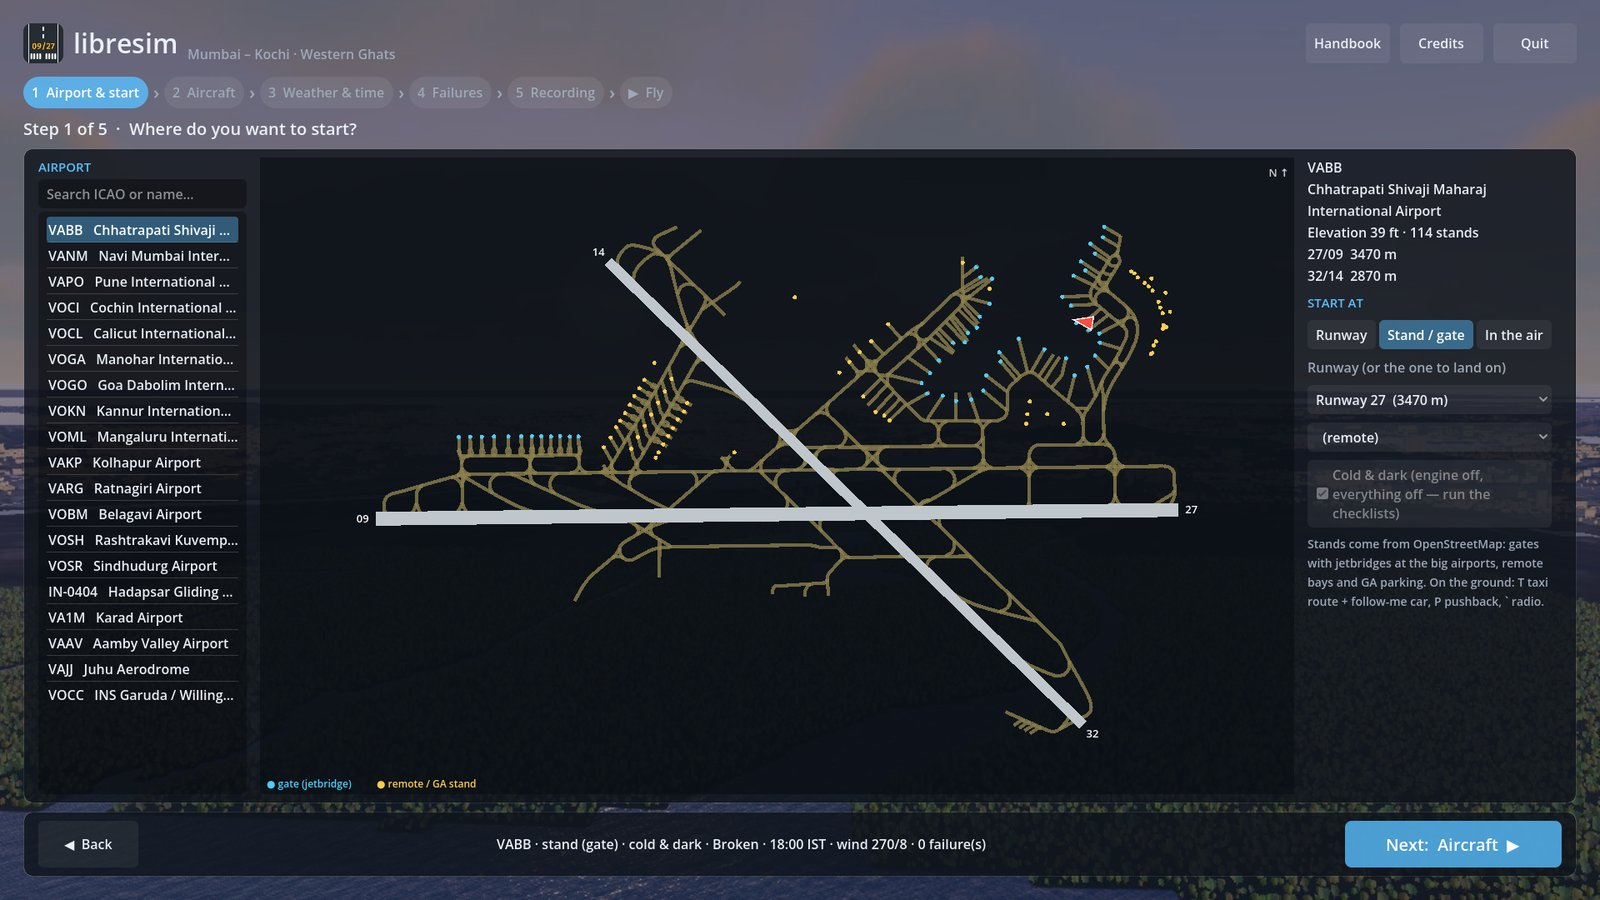
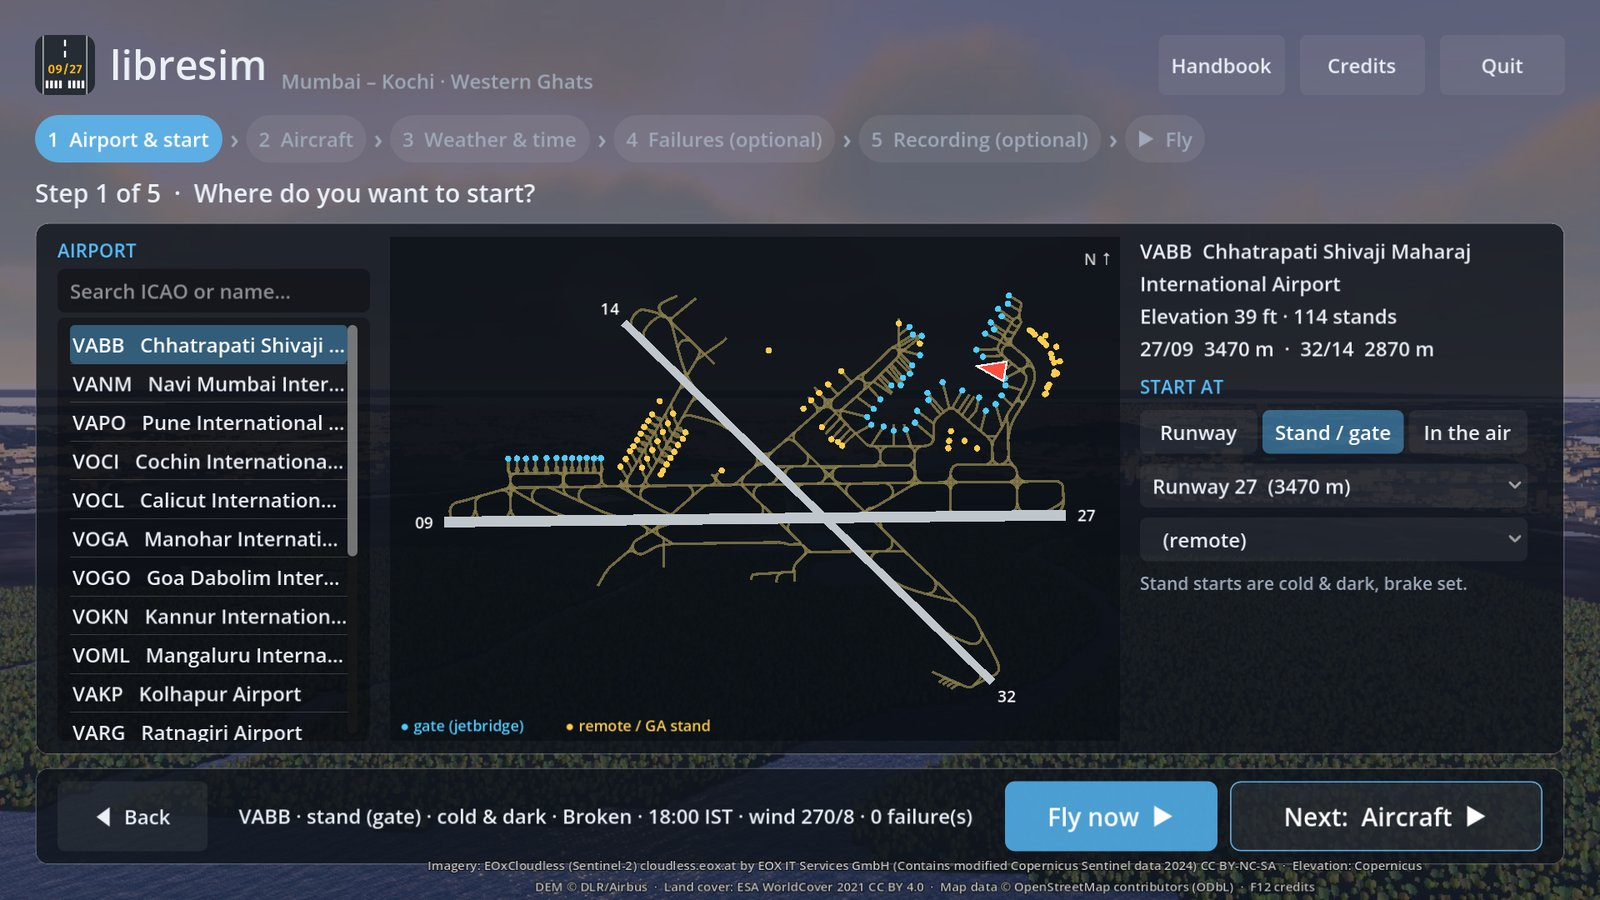
Start screens: fix clipping found on review; refresh README start-screen images and docs
- Weather step: the Month row moves under Time of day and shows only with "More weather" open, so
  everything fits at 1280x720 and 1920x1080; Aircraft step: narrower aircraft list and payload label
  width so the A320's three key specs and the payload labels fit on one line each.
- README images 09 (start screen), 10 (airport picker) and 15 (A320 aircraft page) regenerated with
  tools/make_screenshots.sh from the tidied pages (the a320_aircraft_page scene no longer scrolls);
  README caption/alt text adjusted.
- docs/USAGE.md step 5 and More weather wording; docs/A320-STATUS.md follow-ups marked done.
- 531 tests pass; start-screen e2e 52/52.

Changed region(s): [[0.0, 0.0311, 1.0, 0.9956], [0.7188, 0.0311, 0.9062, 0.0933], [0.9062, 0.0311, 0.9688, 0.0933]]

diff --git a/docs/USAGE.md b/docs/USAGE.md
@@ -234,7 +234,7 @@ Running the game opens the **start screen** (the libresim logo shows first as th
    - Set fuel and the loads (one compact slider each). The takeoff weight is checked against MTOW and the CG against the envelope (shown red with OVER MTOW / CG OUT OF LIMITS; hover the weight for the pilot weight and what an out-of-limits loading does). Payload changes the mass, CG and performance in the flight model.
 3. **Weather & time:**
    - **Weather presets:** Clear, Fair, Scattered, Broken (passing showers), Overcast (drizzle), Winter haze, Monsoon (heavy rain under a low deck, occasional lightning).
-   - **Time of day:** presets or a slider. **Dawn** and **Dusk** are the real sunrise and sunset for the chosen month (mid-February: 07:10 and 18:40 IST; June: about 06:00 and 19:15).
+   - **Time of day:** presets or a slider. **Dawn** and **Dusk** are the real sunrise and sunset for the chosen month (mid-February: 07:10 and 18:40 IST; June: about 06:00 and 19:15). The **Month** row (and the clock rate) appear under "More weather".
    - **Wind:** presets, direction and speed, plus a "90° crosswind" button. A live head/crosswind readout covers the chosen runway and turns red above the C172's 15 kt demonstrated crosswind or with a tailwind.
    - **More weather** (collapsed at first): cloud cover, cloud base, visibility, rain, turbulence, thermals, storm cells, icing, gusts, QNH, temperature, the clock rate and the month.
 4. **Failures (optional):**
@@ -255,7 +255,7 @@ Running the game opens the **start screen** (the libresim logo shows first as th
    - "Tell me when something fails" shows a notice. With it off, you diagnose the failure from the instruments and the aircraft's behaviour.
 
 5. **Recording (optional):**
-   - Tick "Record this flight" to record the whole session, **picture and sound**.
+   - Skip this step to fly without recording. Tick "Record this flight" to record the whole session, **picture and sound** (F8 starts / stops it in flight; hover the tick box for the details). The step shows only the folder, resolution / frame rate, the MP4 option and one size line; the rest is in hover tips.
    - Files go to `recordings/` in the game folder by default, or to any folder you choose. Read-only installs (AppImage, .app) fall back to `~/.local/share/godot/app_userdata/libresim/recordings`.
    - Choose 720p, 1080p or native resolution, at 24, 30 or 60 fps.
    - **Format:** files are named `libresim_<date>_<time>.mkv` (MJPEG video plus 16-bit PCM sound), written by the game itself, so no extra software is needed. They play in VLC and mpv and import into video editors.

diff --git a/docs/A320-STATUS.md b/docs/A320-STATUS.md
@@ -116,14 +116,10 @@ Run order and options: USAGE section 3 ("A320 data", "A320 model"). Untrusted fe
 - `docs/LICENSING.md`, `third_party/a320-family/SOURCE.md`, `CREDITS.md`, `game/aircraft/a320/sounds/SOURCES.md`: licences and credits.
 - `docs/ATC.md`: the airline ATC profile.
 
-## 8. Open: start-screen tidy follow-ups (Free flight steps; committed in `3a56109`)
+## 8. Start-screen tidy (Free flight steps): done
 
-Not done yet, in order:
-1. Read the C172 re-shoots in `data/scratch/shots/f_c172/` and `f_c172_open/`, re-shoot the A320 (plain and with `FREESIM_OPEN=1`) and check: Weather step with "More weather" open (does the Month row fit, where the "90° crosswind" button sits); Aircraft step (three key specs wrapping in the 430 px right column, payload labels clipped); Failures step still scrolls acceptably. Fix any clipping in `ui/menu/conditions_page.gd` / `aircraft_page.gd`.
-2. Same shots at 1920x1080 (`FREESIM_SIZE=1920x1080`).
-3. `docs/USAGE.md`: step 5 wording and the Dawn/Dusk bullet (~line 237) still mention the clock rate and month.
-4. `game/tests/showcase_scenes.gd`: remove `"scroll": 150` from the `a320_aircraft_page` scene, then regenerate `docs/screenshots/09-start-screen.jpg`, `10-airport-picker.jpg`, `15-a320-aircraft-page.jpg` with `tools/make_screenshots.sh start_home start_flight a320_aircraft_page` (one windowed run, `--audio-driver Dummy`); they still show the old, denser pages.
-5. Full suite (`godot --headless --path game res://tests/run_tests.tscn --audio-driver Dummy`, baseline 531) and, if it works headless, `tools/e2e.sh` (it backs up the user files).
+All five steps are tidied (Fly now in the footer, optional steps named, "More weather" and aircraft "Details" toggles, notes moved to hover tips; see "Start screen" in `docs/USAGE.md`). The three README start-screen images are regenerated from the new pages. Checked after the tidy: full suite 531/531 and the start-screen e2e (`tools/e2e.sh <run> menu`, 52/52; e2e.sh needs a `timeout` command, which macOS lacks, so put a pass-through `timeout` script on PATH).
 
 Screenshot commands (one windowed run at a time, each takes minutes; `pkill -f debug_menu.tscn` before a new one):
-`FREESIM_AIRCRAFT=a320 FREESIM_SHOTS=$PWD/data/scratch/shots/f_a320 ~/.local/bin/godot --path game --audio-driver Dummy res://tests/debug_menu.tscn`
+`FREESIM_AIRCRAFT=a320 FREESIM_SHOTS=$PWD/data/scratch/shots/f_a320 ~/.local/bin/godot --path game --audio-driver Dummy res://tests/debug_menu.tscn` (add `FREESIM_OPEN=1` to open "More weather" and "Details", `FREESIM_SIZE=1920x1080` for full HD).
+

diff --git a/README.md b/README.md
@@ -48,7 +48,7 @@ Real in-game captures at 1920x1080 on the Ultra graphics preset, nothing edited 
     <td width="50%"><img src="docs/screenshots/14-a320-final-dusk.jpg" alt="A320-family airliner with its landing gear down on approach over the lit buildings of Mumbai at dusk, red wing-tip light visible, orange sky and first stars" width="100%"><br><sub>A320 on approach to Mumbai (VABB) runway 27 at dusk, gear down, over the lit suburbs.</sub></td>
   </tr>
   <tr>
-    <td width="50%"><img src="docs/screenshots/15-a320-aircraft-page.jpg" alt="Free-flight setup, aircraft step, showing the A320-family card with its description and specifications, the fuel and payload sliders and the weight and balance envelope chart" width="100%"><br><sub>Start screen, aircraft step: A320 specifications, fuel and payload sliders, and the weight and balance envelope (approximate).</sub></td>
+    <td width="50%"><img src="docs/screenshots/15-a320-aircraft-page.jpg" alt="Free-flight setup, aircraft step, showing the A320-family card with its key specifications, the fuel and payload sliders and the weight and balance envelope chart" width="100%"><br><sub>Start screen, aircraft step: A320 key figures, fuel and payload sliders, and the weight and balance envelope (approximate).</sub></td>
     <td width="50%"><img src="docs/screenshots/16-callsign-tail-number.jpg" alt="Side view of a Cessna 172 parked at a gate with a fuel truck and terminal behind it, with the custom registration VT-LBR painted on the rear fuselage" width="100%"><br><sub>Cessna 172 at Pune (VAPO) wearing the call sign you choose as its tail number (VT-LBR here).</sub></td>
   </tr>
 </table>
